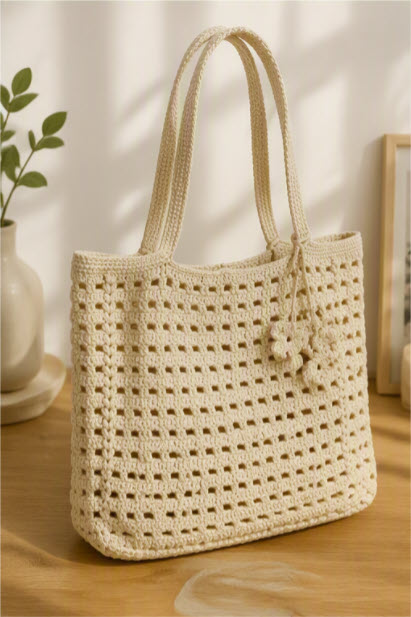
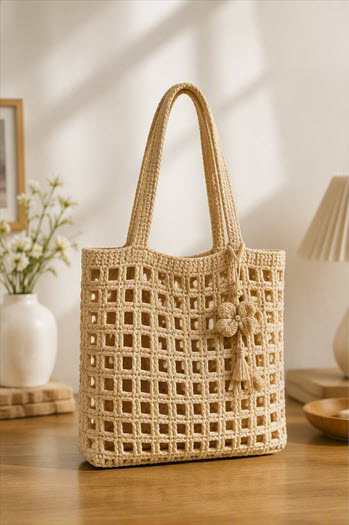
Fix featured handbag image cropping

diff --git a/translations.js b/translations.js
@@ -13,17 +13,21 @@ const translations = {
     shop_inquiry: 'Yêu cầu mua hàng',
     meet_maker: 'Gặp người sáng tạo',
     featured: 'Nổi bật',
-    buttercup_title: 'Túi xách len',
-    buttercup_copy: 'Túi xách len nổi bật với sự tỉ mỉ trong từng mũi móc và kiểu dáng thanh lịch.',
+    buttercup_title: 'Túi đan len 1',
+    buttercup_copy: 'Túi đan len nổi bật với sự tỉ mỉ trong từng mũi móc và kiểu dáng thanh lịch.',
+    handmade_crochet_bag: "Túi móc thủ công",
+    handmade_crochet_bag_copy:
+      "Chiếc túi nổi bật với sự chăm chút tỉ mỉ trong từng mũi móc cùng thiết kế thanh lịch.",
+    view_in_gallery: "Xem trong bộ sưu tập",
     
     // Collections
     collections: 'Bộ sưu tập',
     collections_title: 'Những chiếc túi xách và mũ được làm thủ công cho mọi dịp.',
-    classic_satchel: 'Túi Satchel Cổ điển',
+    classic_satchel: 'Túi đan len 2',
     classic_satchel_copy: 'Đường viền cấu trúc và phần cứng tinh tế làm cho chiếc túi này trở thành người bạn đi làm hoàn hảo hàng ngày.',
-    woven_crossbody: 'Túi Crossbody Đan',
+    woven_crossbody: 'Túi đan len 3',
     woven_crossbody_copy: 'Nhẹ, thanh lịch, và hoàn hảo để mang theo những thứ cần thiết với sự thoải mái và quyến rũ.',
-    evening_clutch: 'Túi Clutch Buổi tối',
+    evening_clutch: 'Túi đan len 4',
     evening_clutch_copy: 'Các chi tiết khâu tay và các đường viền tinh chỉnh dành cho những đêm đặc biệt.',
     
     // Story Section
@@ -91,17 +95,20 @@ const translations = {
     shop_inquiry: 'Shop Inquiry',
     meet_maker: 'Meet the Maker',
     featured: 'Featured',
-    buttercup_title: 'handmade crochet bag',
-    buttercup_copy: 'Soft leather finish with delicate embroidered details and a roomy interior.',
-    
+    buttercup_title: 'Handmade crochet bag 1',
+    buttercup_copy: 'The handbag stands out for the meticulous attention to detail in every crochet stitch and its elegant design.',
+    handmade_crochet_bag: "Handmade Crochet Bag",
+    handmade_crochet_bag_copy:
+      "The handbag stands out for the meticulous attention to detail in every crochet stitch and its elegant design.",
+    view_in_gallery: "View in Gallery",
     // Collections
     collections: 'Collections',
     collections_title: 'Handmade handbags and hats for every occasion.',
-    classic_satchel: 'Classic Satchel',
+    classic_satchel: 'Handmade crochet bag 2',
     classic_satchel_copy: 'Structured lines and subtle hardware make this bag a polished everyday companion.',
-    woven_crossbody: 'Woven Crossbody',
+    woven_crossbody: 'Handmade crochet bag 3',
     woven_crossbody_copy: 'Lightweight, elegant, and perfect for carrying essentials with comfort and charm.',
-    evening_clutch: 'Evening Clutch',
+    evening_clutch: 'Handmade crochet bag 4',
     evening_clutch_copy: 'Hand-stitched details and a refined silhouette for special nights out.',
     
     // Story Section

diff --git a/gallery-data.js b/gallery-data.js
@@ -26,25 +26,29 @@ const handbagItems = [
   },
   {
     id: 3,
-    title: 'Woven Crossbody',
+    title: 'Handmade crochet bag 3',
     desc: 'Lightweight, elegant, and perfect for carrying essentials with comfort and charm.',
     images: [
-      'https://images.unsplash.com/photo-1495121605193-b116b5b9c5d6?auto=format&fit=crop&w=800&q=80',
-      'https://images.unsplash.com/photo-1520962915462-2f277ed0b07a?auto=format&fit=crop&w=800&q=80',
-      'https://images.unsplash.com/photo-1553062407-98eeb64c6a62?auto=format&fit=crop&w=800&q=80'
+      'images/Bag3_1.jpg',
+      'images/Bag3_2.jpg',
+      'images/Bag3_3.jpg',
+      'images/Bag3_4.jpg'
     ],
     tags: ['Crossbody', 'Casual', 'Travel']
   },
   {
     id: 4,
-    title: 'Evening Clutch',
+    title: 'Handmade crochet bag 4',
     desc: 'Hand-stitched details and a refined silhouette for special nights out.',
     images: [
-      'https://images.unsplash.com/photo-1520962915462-2f277ed0b07a?auto=format&fit=crop&w=800&q=80',
-      'https://images.unsplash.com/photo-1491553895911-0055eca6402d?auto=format&fit=crop&w=800&q=80'
+      'images/Bag4_1.jpg',
+      'images/Bag4_2.jpg',
+      'images/Bag4_3.jpg',
+      'images/Bag4_4.jpg'
     ],
     tags: ['Clutch', 'Evening', 'Special']
-  },
+  }
+  /*,
   {
     id: 5,
     title: 'Leather Backpack',
@@ -87,6 +91,7 @@ const handbagItems = [
     ],
     tags: ['Tote', 'Large', 'Travel']
   }
+  */
 ];
 
 const hatItems = [
@@ -102,7 +107,7 @@ const hatItems = [
   },
   {
     id: 102,
-    title: 'Wool Beret',
+    title: 'Straw Summer Hat 2',
     desc: 'Classic French-inspired beret in soft merino wool. Warm and stylish for any season.',
     images: [
       'https://images.unsplash.com/photo-1529631819178-1bffc26076b5?auto=format&fit=crop&w=800&q=80',
@@ -113,7 +118,7 @@ const hatItems = [
   },
   {
     id: 103,
-    title: 'Wide-Brim Felt Hat',
+    title: 'Straw Summer Hat 3',
     desc: 'Elegant felt hat with a broad brim, perfect for sun protection and sophisticated style.',
     images: [
       'https://images.unsplash.com/photo-1539076519371-39c669300bf0?auto=format&fit=crop&w=800&q=80',
